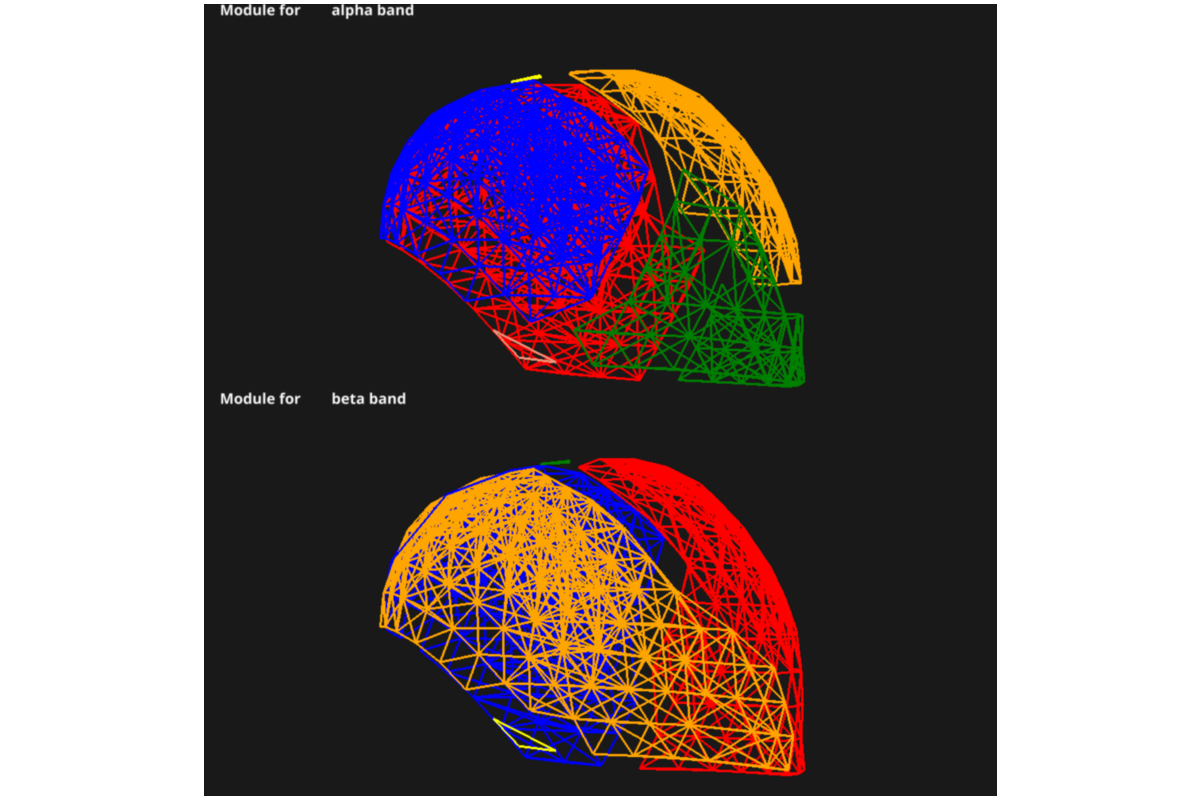
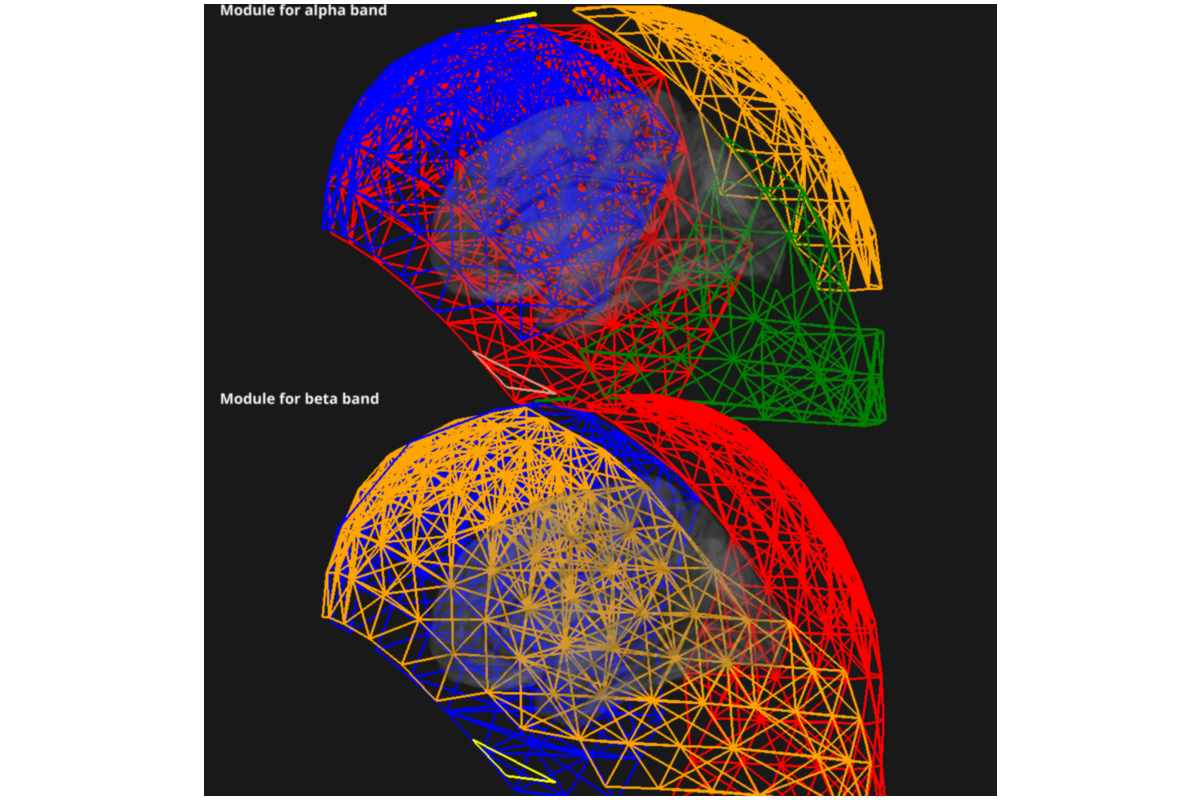
Make install

diff --git a/searchindex.js b/searchindex.js
@@ -1,1 +1,1 @@
-Search.setIndex({docnames:["api","auto_examples/index","auto_examples/plot_conmat_to_graph","index"],envversion:{"sphinx.domains.c":1,"sphinx.domains.changeset":1,"sphinx.domains.cpp":1,"sphinx.domains.javascript":1,"sphinx.domains.math":2,"sphinx.domains.python":1,"sphinx.domains.rst":1,"sphinx.domains.std":1,"sphinx.ext.intersphinx":1,"sphinx.ext.viewcode":1,sphinx:55},filenames:["api.rst","auto_examples/index.rst","auto_examples/plot_conmat_to_graph.rst","index.rst"],objects:{},objnames:{},objtypes:{},terms:{"class":2,"export":3,"final":2,"function":[2,3],"import":2,"true":2,"try":2,For:2,The:[2,3],Then:2,__path__:2,_blank:2,_freq_band_name_:2,add:3,add_to_subplot:2,admiss:2,advanc:3,again:2,algorithm:2,all:[1,3],alon:3,alpha:2,also:2,analys:3,analysi:[2,3],anoth:3,api:3,author:2,auto_examples_jupyt:1,auto_examples_python:1,avail:2,axi:2,band:2,base:[2,3],base_dir:2,base_directori:2,bashrc:3,best:2,beta:2,bgcolor:2,bigger:3,brain:3,briefli:2,bsd:2,c_obj:2,can:[2,3],cat:[2,3],chanc:2,check:2,chosen:2,claus:2,click:2,code:[1,2],coher:2,color:2,com:3,common:3,commonli:3,communities_detect:3,communities_tool:3,community_rada:2,comput:[1,3],con_den:2,config:2,conmat_0_coh:2,conmat_fil:2,conmat_to_graph:[2,3],connect:[1,3],contain:2,coords_fil:2,correct_channel_nam:2,correl:2,correspond:2,cpu:2,creat:2,create_datagrabb:2,create_iter:2,create_pipeline_conmat_to_graph_dens:2,data:[2,3],data_con:2,data_path:2,datagrabb:2,dataset:2,datasourc:2,david:[2,3],david_meunier_79:2,defin:3,deim:[2,3],densiti:2,detail:2,develop:3,dict:2,differ:[2,3],directori:[2,3],download:[1,2,3],each:3,easi:3,eeg:3,electrophysiolog:3,engin:[2,3],enumer:2,env:3,ephypyp:[2,3],etc:2,exampl:2,except:2,execut:2,exist:3,exit:2,expect:2,extract:3,facilit:3,fals:2,fast:[2,3],fetch_omega_dataset:2,field:[2,3],fif:3,figsiz:2,figur:2,file:3,filenam:2,find_commun:3,first:2,fmri:3,focu:3,follow:3,follw:2,format:[2,3],found:2,framework:3,freq_band_nam:2,frequenc:2,from:[1,3],full:2,galleri:2,gener:[1,2],get_frequency_band:2,github:3,given:1,global:2,gomez:[2,3],grab:2,graph2us:2,graph:[1,3],graph_analysi:2,graph_analysis_nam:2,graph_den_pipe_den_0_05:2,graph_workflow:2,graphpyp:[0,2],have:2,here:2,higher:2,home:3,hotmail:2,how:2,href:2,html:2,http:[2,3],identityinterfac:2,imag:3,img:2,implement:[2,3],importerror:2,imread:2,imshow:2,includ:3,infield:2,infosourc:2,input:[2,3],inputnod:2,instal:2,instanti:2,inter_modul:2,interfac:2,ipynb:2,iter:2,job:2,join:2,jupyt:[1,2],kit:3,labels_fil:2,last:2,least:2,left:2,lego:3,licens:2,line:3,linux32:3,linux64:3,local:2,lol:2,lol_fil:2,longer:2,loop:2,main:3,main_workflow:2,mani:3,martino:2,master:3,mat:3,matlab:3,matplotlib:2,matric:3,matrix:1,maximum:2,mayb:3,mean:2,meg:3,meunier:2,minut:2,misc:2,mne:[2,3],mni_coord:2,modal:3,modul:[2,3],moment:2,more:2,multi:3,multiproc:2,n_proc:2,name:2,need:2,net:2,net_fil:2,network_properti:3,network_tool:3,neuro:3,neuroimag:3,neuropycon_data:2,nio:2,nipyp:[2,3],node:[0,2,3],noqa:2,notebook:[1,2],notic:2,now:2,npy:[2,3],number:2,numpi:3,object:2,off:2,one:2,open:3,optim_seq:2,optimis:2,option:2,order:2,org:2,other_tool:3,our:2,out:2,outfield:2,output:[2,3],packag:3,paramet:2,particular:[2,3],pass:2,path:[2,3],paus:2,pearson:2,perform:2,php:[2,3],pip:[2,3],pipelin:[0,2,3],pli:2,plot:2,plot_conmat_to_graph:2,plot_connectivity_circl:2,plotspectralconn:2,plt:2,plugin:2,plugin_arg:2,png:2,possibl:3,prep_rada:2,prepare_network:3,preview:2,print:2,process:3,project:3,properti:1,propos:2,provid:3,pyplot:2,python3:3,python:[1,2,3],rada_path:3,radatool:2,radatools_optim:2,raw:[2,3],reach:2,readi:2,readm:2,reformat_result:3,reliabl:2,remove_unnecessary_output:2,repetit:2,replac:3,repo:3,reposit:2,requir:2,res_path:2,result:2,rotat:2,row:2,run:[2,3],sceneobj:2,scipi:2,script:2,search:2,second:2,see:2,sequenc:2,sergio:[2,3],seri:[2,3],set:3,sever:2,should:[2,3],show:2,sign:2,size:2,softwar:3,some:2,sort_filelist:2,sotwar:3,sourc:[1,2,3],specifi:[2,3],spectral:2,spectral_connect:2,spectralconn:2,sphinx:[1,2],stabl:2,stand:3,step:3,store:2,subsequ:3,tabu:2,take:2,taken:2,target:2,tell:2,templat:2,template_arg:2,template_path:2,test:2,tfrf:2,theoret:3,thi:2,thread:3,three:3,threshold:2,thu:2,time:[2,3],titl:2,title_bold:2,title_color:2,title_s:2,togeth:[2,3],tool:3,total:2,two:[2,3],txt:2,typic:2,unsign:2,upon:2,urv:[2,3],use_this_cam:2,used:[2,3],user:3,using:2,util:[0,2],utils_visbrain:2,valu:2,variabl:3,veri:[2,3],visbrain:2,visu:2,visu_graph_modul:2,visual:2,viz:2,wai:3,warn:2,weight:2,well:3,what:2,where:3,which:[2,3],white:2,within:2,work:3,workflow:[2,3],wrap:3,write:2,write_graph:2,x_offset:2,y_offset:2,you:3,your:3,z_list:2,z_offset:2,zip:[1,3],zipbal:3,zoom:2},titles:["API Documentation","Examples Gallery","Compute Graph properties from a given connectivity matrix","Neuropycon"],titleterms:{For:3,api:0,comput:2,connect:2,document:0,exampl:1,from:2,galleri:1,given:2,graph:2,graphpyp:3,instal:3,matrix:2,neuropycon:3,properti:2,radatool:3}})
+Search.setIndex({docnames:["api","auto_examples/index","auto_examples/plot_conmat_to_graph","index"],envversion:{"sphinx.domains.c":1,"sphinx.domains.changeset":1,"sphinx.domains.cpp":1,"sphinx.domains.javascript":1,"sphinx.domains.math":2,"sphinx.domains.python":1,"sphinx.domains.rst":1,"sphinx.domains.std":1,"sphinx.ext.intersphinx":1,"sphinx.ext.viewcode":1,sphinx:55},filenames:["api.rst","auto_examples/index.rst","auto_examples/plot_conmat_to_graph.rst","index.rst"],objects:{},objnames:{},objtypes:{},terms:{"class":2,"export":3,"final":2,"function":[2,3],"import":2,"true":2,"try":2,For:2,The:[2,3],Then:2,__path__:2,_blank:2,_freq_band_name_:2,add:3,add_to_subplot:2,admiss:2,advanc:3,again:2,algorithm:2,all:[1,3],alon:3,alpha:2,also:2,analys:3,analysi:[2,3],anoth:3,api:3,author:2,auto_examples_jupyt:1,auto_examples_python:1,avail:2,axi:2,b_obj:2,band:2,base:[2,3],base_dir:2,base_directori:2,bashrc:3,best:2,beta:2,bgcolor:2,bigger:3,brain:3,brainobj:2,briefli:2,bsd:2,c_obj:2,can:[2,3],cat:[2,3],chanc:2,check:2,chosen:2,claus:2,click:2,code:[1,2],coher:2,color:2,com:3,common:3,commonli:3,communities_detect:3,communities_tool:3,community_rada:2,comput:[1,3],con_den:2,config:2,conmat_0_coh:2,conmat_fil:2,conmat_to_graph:[2,3],connect:[1,3],contain:2,coords_fil:2,correct_channel_nam:2,correl:2,correspond:2,cpu:2,creat:2,create_datagrabb:2,create_iter:2,create_pipeline_conmat_to_graph_dens:2,data:[2,3],data_con:2,data_path:2,datagrabb:2,dataset:2,datasourc:2,david:[2,3],david_meunier_79:2,defin:3,deim:[2,3],densiti:2,detail:2,develop:3,dict:2,differ:[2,3],directori:[2,3],download:[1,2,3],each:3,easi:3,eeg:3,electrophysiolog:3,engin:[2,3],enumer:2,env:3,ephypyp:[2,3],etc:2,exampl:2,except:2,execut:2,exist:3,exit:2,expect:2,extract:3,facilit:3,fals:2,fast:[2,3],fetch_omega_dataset:2,field:[2,3],fif:3,figsiz:2,figur:2,file:3,filenam:2,find_commun:3,first:2,fmri:3,focu:3,follow:3,follw:2,format:[2,3],found:2,framework:3,freq_band_nam:2,frequenc:2,from:[1,3],full:2,galleri:2,gener:[1,2],get_frequency_band:2,github:3,given:1,global:2,gomez:[2,3],grab:2,graph2us:2,graph:[1,3],graph_analysi:2,graph_analysis_nam:2,graph_den_pipe_den_0_05:2,graph_workflow:2,graphpyp:[0,2],have:2,here:2,higher:2,home:3,hotmail:2,how:2,href:2,html:2,http:[2,3],identityinterfac:2,imag:3,img:2,implement:[2,3],importerror:2,imread:2,imshow:2,includ:3,infield:2,infosourc:2,input:[2,3],inputnod:2,instal:2,instanti:2,inter_modul:2,interfac:2,ipynb:2,iter:2,job:2,join:2,jupyt:[1,2],kit:3,labels_fil:2,last:2,least:2,left:2,lego:3,licens:2,line:3,linux32:3,linux64:3,local:2,lol:2,lol_fil:2,longer:2,loop:2,main:3,main_workflow:2,mani:3,martino:2,master:3,mat:3,matlab:3,matplotlib:2,matric:3,matrix:1,maximum:2,mayb:3,mean:2,meg:3,meunier:2,minut:2,misc:2,mne:[2,3],mni_coord:2,modal:3,modul:[2,3],moment:2,more:2,multi:3,multiproc:2,n_proc:2,name:2,need:2,net:2,net_fil:2,network_properti:3,network_tool:3,neuro:3,neuroimag:3,neuropycon_data:2,nio:2,nipyp:[2,3],node:[0,2,3],noqa:2,notebook:[1,2],notic:2,now:2,npy:[2,3],number:2,numpi:3,object:2,off:2,one:2,open:3,optim_seq:2,optimis:2,option:2,order:2,org:2,other_tool:3,our:2,out:2,outfield:2,output:[2,3],packag:3,paramet:2,particular:[2,3],pass:2,path:[2,3],paus:2,pearson:2,perform:2,php:[2,3],pip:[2,3],pipelin:[0,2,3],pli:2,plot:2,plot_conmat_to_graph:2,plot_connectivity_circl:2,plotspectralconn:2,plt:2,plugin:2,plugin_arg:2,png:2,possibl:3,prep_rada:2,prepare_network:3,preview:2,print:2,process:3,project:3,properti:1,propos:2,provid:3,pyplot:2,python3:3,python:[1,2,3],rada_path:3,radatool:2,radatools_optim:2,raw:[2,3],reach:2,readi:2,readm:2,reformat_result:3,reliabl:2,remove_unnecessary_output:2,repetit:2,replac:3,repo:3,reposit:2,requir:2,res_path:2,result:2,rotat:2,row:2,run:[2,3],sceneobj:2,scipi:2,script:2,search:2,second:2,see:2,sequenc:2,sergio:[2,3],seri:[2,3],set:3,sever:2,should:[2,3],show:2,sign:2,size:2,softwar:3,some:2,sort_filelist:2,sotwar:3,sourc:[1,2,3],specifi:[2,3],spectral:2,spectral_connect:2,spectralconn:2,sphinx:[1,2],stabl:2,stand:3,step:3,store:2,subsequ:3,tabu:2,take:2,taken:2,target:2,tell:2,templat:2,template_arg:2,template_path:2,test:2,tfrf:2,theoret:3,thi:2,thread:3,three:3,threshold:2,thu:2,time:[2,3],titl:2,title_bold:2,title_color:2,title_s:2,togeth:[2,3],tool:3,total:2,two:[2,3],txt:2,typic:2,unsign:2,upon:2,urv:[2,3],use_this_cam:2,used:[2,3],user:3,using:2,util:[0,2],utils_visbrain:2,valu:2,variabl:3,veri:[2,3],visbrain:2,visu:2,visu_graph_modul:2,visual:2,viz:2,wai:3,warn:2,weight:2,well:3,what:2,where:3,which:[2,3],white:2,within:2,work:3,workflow:[2,3],wrap:3,write:2,write_graph:2,x_offset:2,y_offset:2,you:3,your:3,z_list:2,z_offset:2,zip:[1,3],zipbal:3},titles:["API Documentation","Examples Gallery","Compute Graph properties from a given connectivity matrix","Neuropycon"],titleterms:{For:3,api:0,comput:2,connect:2,document:0,exampl:1,from:2,galleri:1,given:2,graph:2,graphpyp:3,instal:3,matrix:2,neuropycon:3,properti:2,radatool:3}})

diff --git a/auto_examples/plot_conmat_to_graph.html b/auto_examples/plot_conmat_to_graph.html
@@ -290,7 +290,7 @@ here correspond to how we connected the nodes.</p>
                              <span class="c1">##x_offset=0, y_offset=-20, z_offset=-50)</span>
     <span class="c1">##visu.show()</span>
 
-<span class="kn">from</span> <span class="nn">visbrain.objects</span> <span class="kn">import</span> <span class="n">SceneObj</span>
+<span class="kn">from</span> <span class="nn">visbrain.objects</span> <span class="kn">import</span> <span class="n">SceneObj</span><span class="p">,</span> <span class="n">BrainObj</span>
 
 <span class="n">sc</span> <span class="o">=</span> <span class="n">SceneObj</span><span class="p">(</span><span class="n">size</span><span class="o">=</span><span class="p">(</span><span class="mi">1000</span><span class="p">,</span> <span class="mi">1000</span><span class="p">),</span> <span class="n">bgcolor</span><span class="o">=</span><span class="p">(</span><span class="o">.</span><span class="mi">1</span><span class="p">,</span> <span class="o">.</span><span class="mi">1</span><span class="p">,</span> <span class="o">.</span><span class="mi">1</span><span class="p">))</span>
 
@@ -310,16 +310,19 @@ here correspond to how we connected the nodes.</p>
                              <span class="n">z_offset</span><span class="o">=+</span><span class="mi">50</span><span class="p">)</span>
                              <span class="c1">#x_offset=0, y_offset=-20, z_offset=-50)</span>
 
-    <span class="n">sc</span><span class="o">.</span><span class="n">add_to_subplot</span><span class="p">(</span><span class="n">c_obj</span><span class="p">,</span> <span class="n">title</span><span class="o">=</span><span class="p">(</span><span class="s2">&quot;Module for</span><span class="se">\</span>
-<span class="s2">        {} band&quot;</span><span class="o">.</span><span class="n">format</span><span class="p">(</span><span class="n">freq_band_name</span><span class="p">)),</span> <span class="n">title_size</span><span class="o">=</span><span class="mi">14</span><span class="p">,</span> <span class="n">title_bold</span><span class="o">=</span><span class="bp">True</span><span class="p">,</span>
-        <span class="n">title_color</span><span class="o">=</span><span class="s1">&#39;white&#39;</span><span class="p">,</span> <span class="n">rotate</span><span class="o">=</span><span class="s1">&#39;left&#39;</span><span class="p">,</span> <span class="n">zoom</span><span class="o">=.</span><span class="mi">15</span><span class="p">,</span> <span class="n">use_this_cam</span><span class="o">=</span><span class="bp">True</span><span class="p">,</span>
-        <span class="n">row</span><span class="o">=</span><span class="n">nf</span><span class="p">)</span>
+    <span class="n">sc</span><span class="o">.</span><span class="n">add_to_subplot</span><span class="p">(</span>
+        <span class="n">c_obj</span><span class="p">,</span> <span class="n">row</span><span class="o">=</span><span class="n">nf</span><span class="p">,</span> <span class="n">title</span><span class="o">=</span><span class="p">(</span><span class="s2">&quot;Module for {} band&quot;</span><span class="o">.</span><span class="n">format</span><span class="p">(</span><span class="n">freq_band_name</span><span class="p">)),</span>
+        <span class="n">title_size</span><span class="o">=</span><span class="mi">14</span><span class="p">,</span> <span class="n">title_bold</span><span class="o">=</span><span class="bp">True</span><span class="p">,</span> <span class="n">title_color</span><span class="o">=</span><span class="s1">&#39;white&#39;</span><span class="p">)</span>
+
+    <span class="n">b_obj</span> <span class="o">=</span> <span class="n">BrainObj</span><span class="p">(</span><span class="s2">&quot;white&quot;</span><span class="p">)</span>
+    <span class="n">sc</span><span class="o">.</span><span class="n">add_to_subplot</span><span class="p">(</span><span class="n">b_obj</span><span class="p">,</span> <span class="n">row</span> <span class="o">=</span> <span class="n">nf</span><span class="p">,</span><span class="n">use_this_cam</span><span class="o">=</span><span class="bp">True</span><span class="p">,</span> <span class="n">rotate</span><span class="o">=</span><span class="s1">&#39;left&#39;</span><span class="p">)</span>
+
 
 <span class="n">sc</span><span class="o">.</span><span class="n">preview</span><span class="p">()</span>
 </pre></div>
 </div>
 <img alt="../_images/sphx_glr_plot_conmat_to_graph_002.png" class="sphx-glr-single-img" src="../_images/sphx_glr_plot_conmat_to_graph_002.png" />
-<p><strong>Total running time of the script:</strong> ( 0 minutes  3.335 seconds)</p>
+<p><strong>Total running time of the script:</strong> ( 0 minutes  3.757 seconds)</p>
 <div class="sphx-glr-footer class sphx-glr-footer-example docutils container" id="sphx-glr-download-auto-examples-plot-conmat-to-graph-py">
 <div class="sphx-glr-download docutils container">
 <a class="reference download internal" download="" href="../_downloads/148019e1e7aad92d3808c5ede724a325/plot_conmat_to_graph.py"><code class="xref download docutils literal notranslate"><span class="pre">Download</span> <span class="pre">Python</span> <span class="pre">source</span> <span class="pre">code:</span> <span class="pre">plot_conmat_to_graph.py</span></code></a></div>

diff --git a/_downloads/148019e1e7aad92d3808c5ede724a325/plot_conmat_to_graph.py b/_downloads/148019e1e7aad92d3808c5ede724a325/plot_conmat_to_graph.py
@@ -200,7 +200,7 @@ coords_file = op.join(data_path, "MNI_coords.txt")
                              ##x_offset=0, y_offset=-20, z_offset=-50)
     ##visu.show()
 
-from visbrain.objects import SceneObj
+from visbrain.objects import SceneObj, BrainObj
 
 sc = SceneObj(size=(1000, 1000), bgcolor=(.1, .1, .1))
 
@@ -220,9 +220,12 @@ for nf,freq_band_name in enumerate(freq_band_names):
                              z_offset=+50)
                              #x_offset=0, y_offset=-20, z_offset=-50)
 
-    sc.add_to_subplot(c_obj, title=("Module for\
-        {} band".format(freq_band_name)), title_size=14, title_bold=True,
-        title_color='white', rotate='left', zoom=.15, use_this_cam=True,
-        row=nf)
+    sc.add_to_subplot(
+        c_obj, row=nf, title=("Module for {} band".format(freq_band_name)),
+        title_size=14, title_bold=True, title_color='white')
+
+    b_obj = BrainObj("white")
+    sc.add_to_subplot(b_obj, row = nf,use_this_cam=True, rotate='left')
+
 
 sc.preview()
